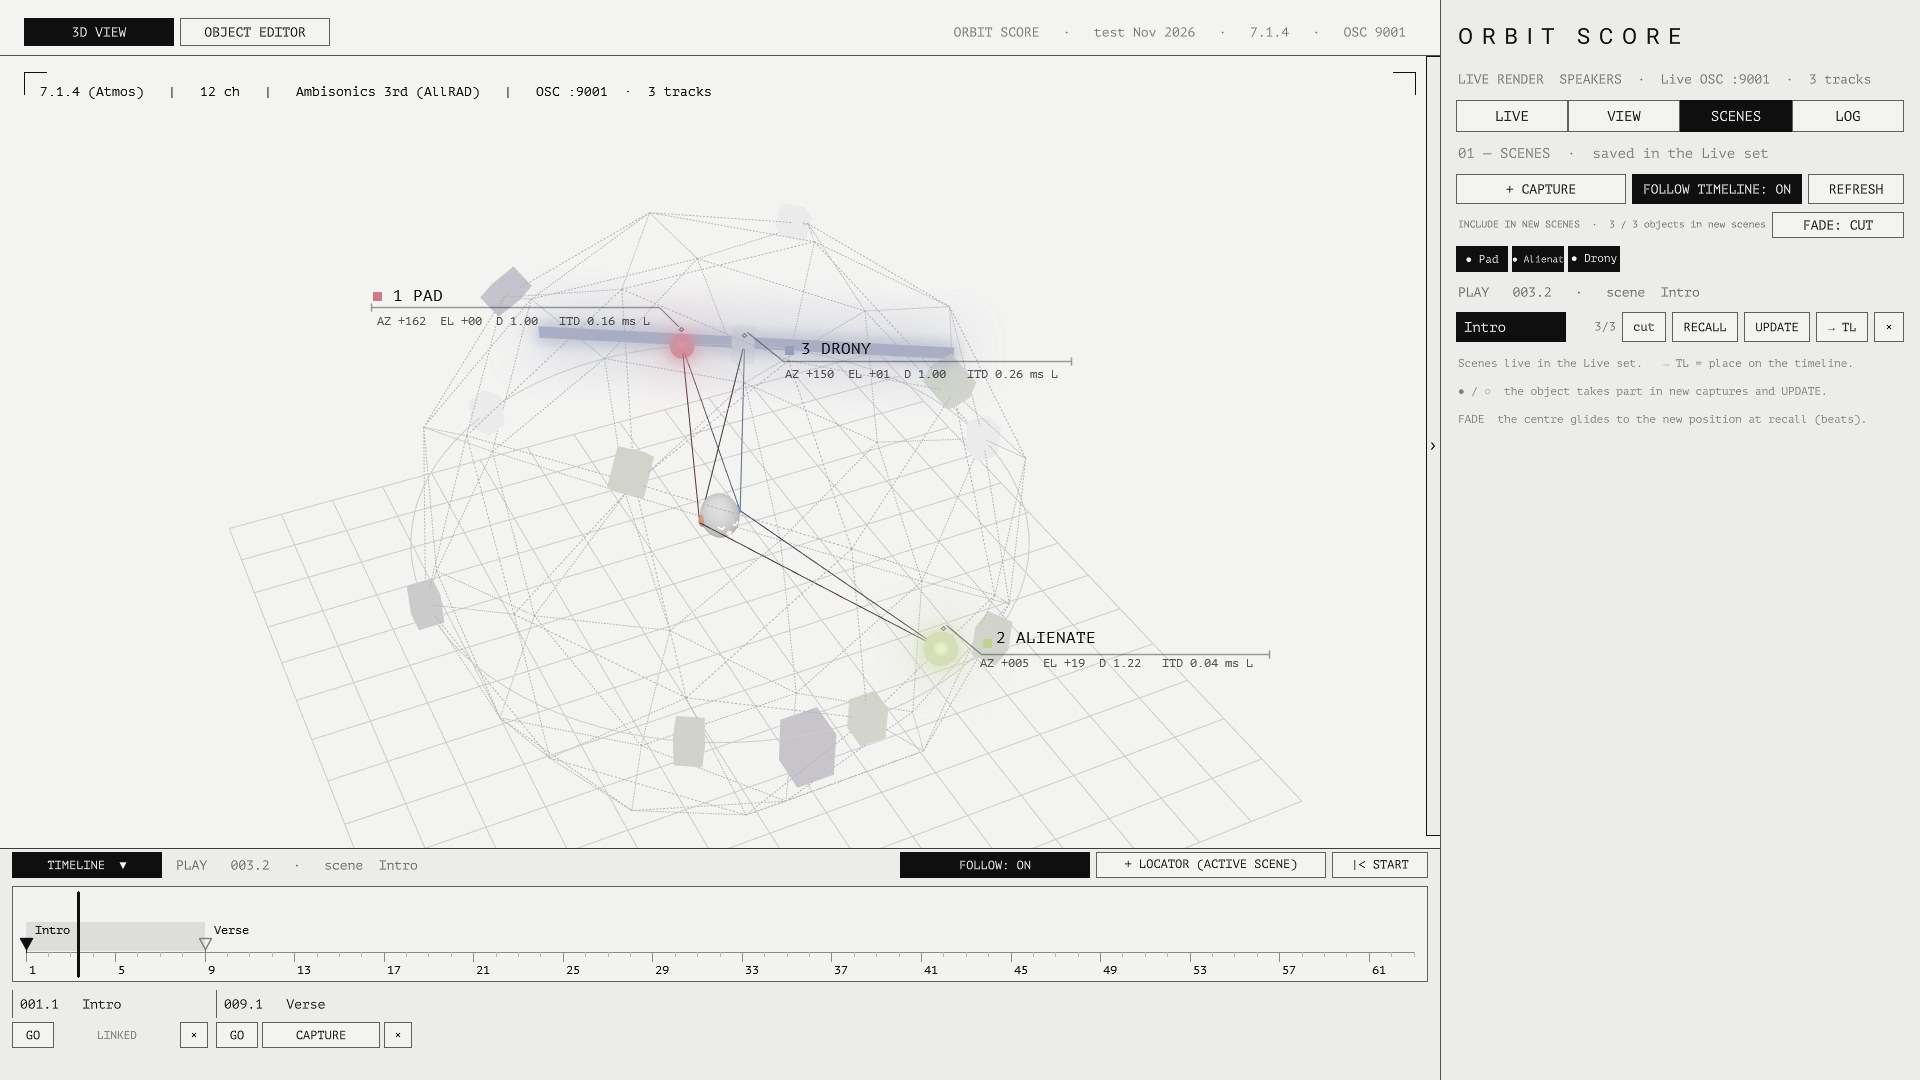
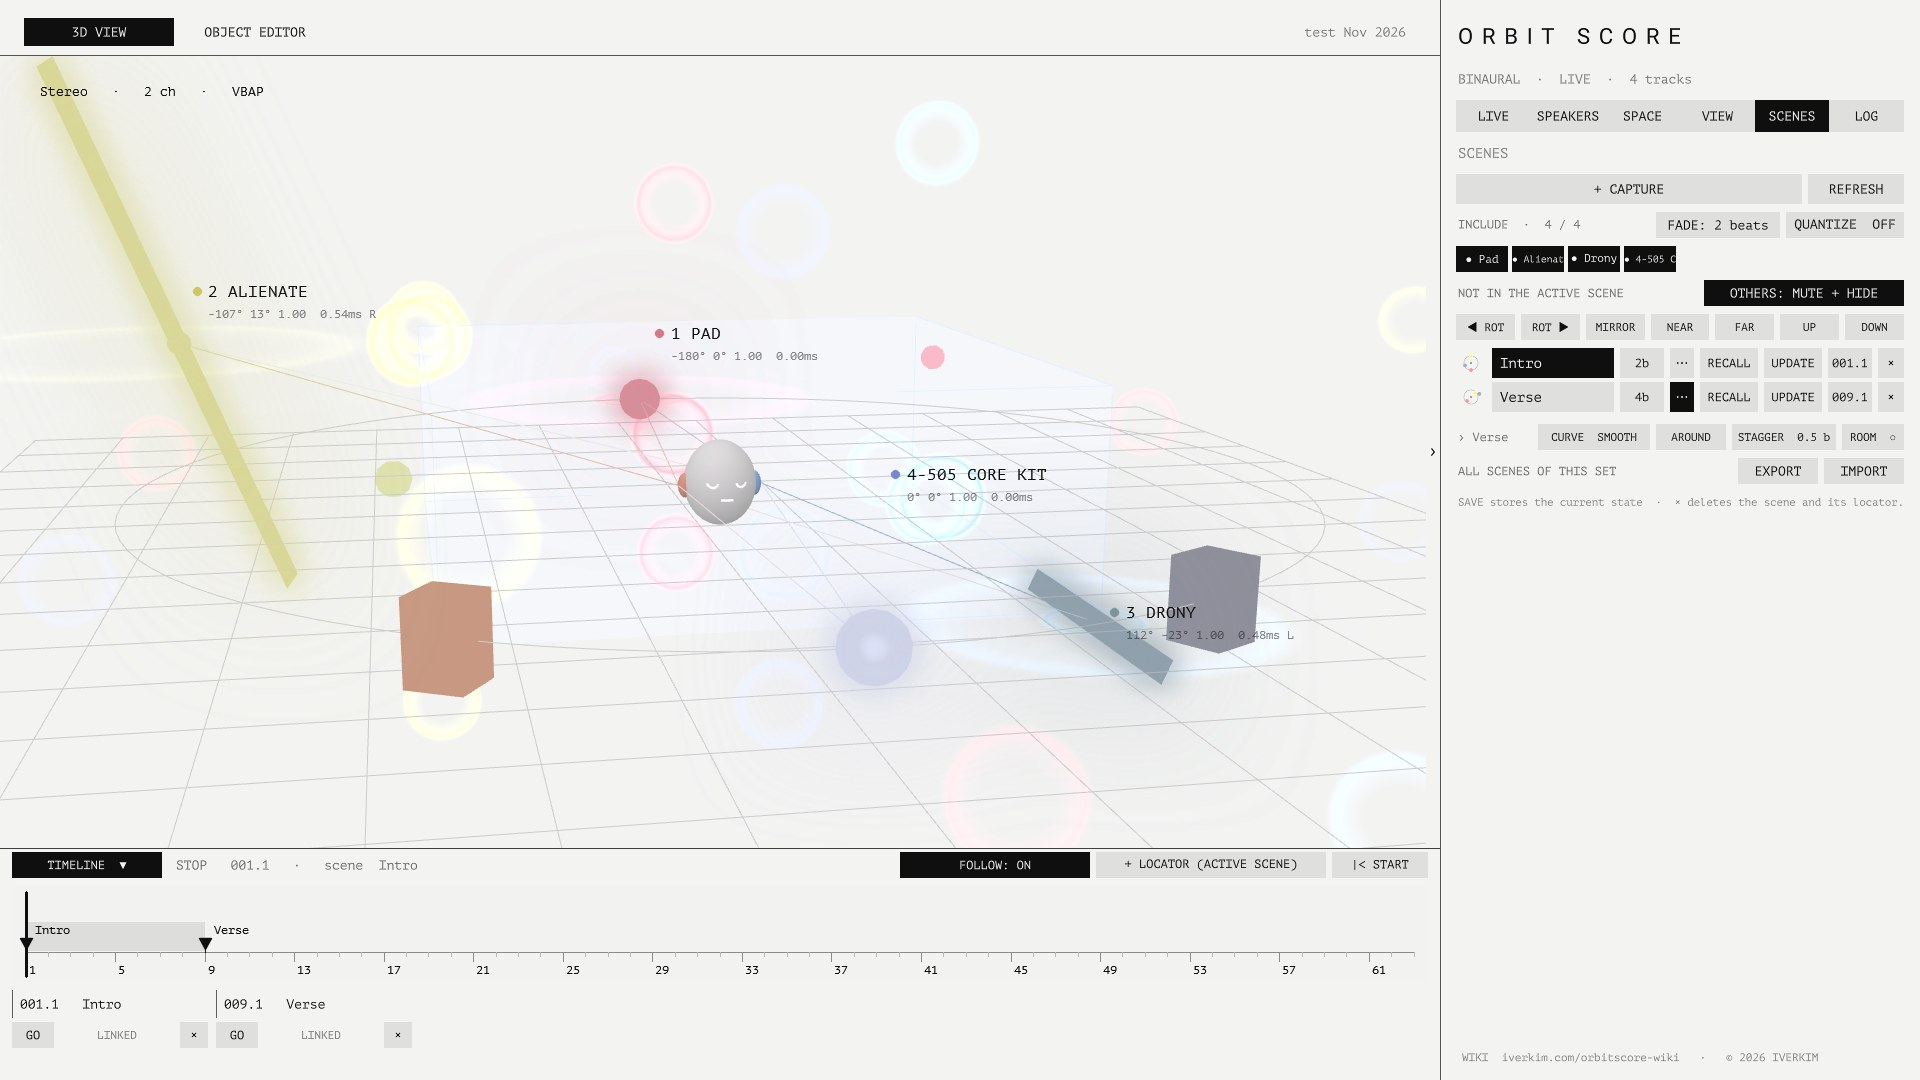
Wiki: new SCENES screenshot (9.6)
Claude-Session: https://claude.ai/code/session_01TKc1CDoWRtRwsAG1rPAYtG

diff --git a/orbitscore-wiki/index.html b/orbitscore-wiki/index.html
@@ -387,7 +387,7 @@ footer{font:11.5px/1.6 var(--f-mono);color:var(--mid);border-top:1px solid var(-
 <section id="scenes">
   <div class="cap">05 — Scenes &amp; timeline</div>
   <h2>Scenes and timeline</h2>
-  <figure><img src="media/ui-scenes.jpg?v=1110b" alt="SCENES tab in the sidebar and the timeline bar along the bottom with two linked locators, Intro and Verse" loading="lazy" width="1920" height="1080"><figcaption>FIG. 5.1 — SCENES tab and the timeline bar</figcaption></figure>
+  <figure><img src="media/ui-scenes.jpg?v=1112a" alt="SCENES tab in the sidebar and the timeline bar along the bottom with two linked locators, Intro and Verse" loading="lazy" width="1920" height="1080"><figcaption>FIG. 5.1 — SCENES tab with the options of Verse open (its ghosts in the 3D view) and the timeline bar</figcaption></figure>
   <p>A <strong>scene</strong> is a snapshot of the objects — centre position, motion, shape, path, sound settings — and <strong>a scene is a Live locator of the same name</strong>. Scenes live in the Spatial Master, so they save with the set and play with TouchDesigner closed.</p>
   <h3>SCENES tab</h3>
   <div class="tw"><table>
@@ -846,7 +846,7 @@ footer{font:11.5px/1.6 var(--f-mono);color:var(--mid);border-top:1px solid var(-
 <section id="ko-scenes">
   <div class="cap">05 — Scenes &amp; timeline</div>
   <h2>씬과 타임라인</h2>
-  <figure><img src="media/ui-scenes.jpg?v=1110b" alt="사이드바 SCENES 탭과 아래쪽 타임라인 바, 연결된 로케이터 Intro와 Verse" loading="lazy" width="1920" height="1080"><figcaption>FIG. 5.1 — SCENES 탭과 타임라인 바</figcaption></figure>
+  <figure><img src="media/ui-scenes.jpg?v=1112a" alt="사이드바 SCENES 탭과 아래쪽 타임라인 바, 연결된 로케이터 Intro와 Verse" loading="lazy" width="1920" height="1080"><figcaption>FIG. 5.1 — SCENES 탭(Verse의 옵션이 열린 상태, 3D 뷰에 고스트 표시)과 타임라인 바</figcaption></figure>
   <p><strong>씬</strong>은 오브젝트 상태(중심 위치, 움직임, 모양, 경로, 사운드 설정)의 스냅숏이며, <strong>같은 이름의 Live 로케이터</strong>와 연결됩니다. 씬은 Spatial Master에 저장되므로 세트와 함께 보존되고 TouchDesigner 없이도 재생됩니다.</p>
   <h3>SCENES 탭</h3>
   <div class="tw"><table>
